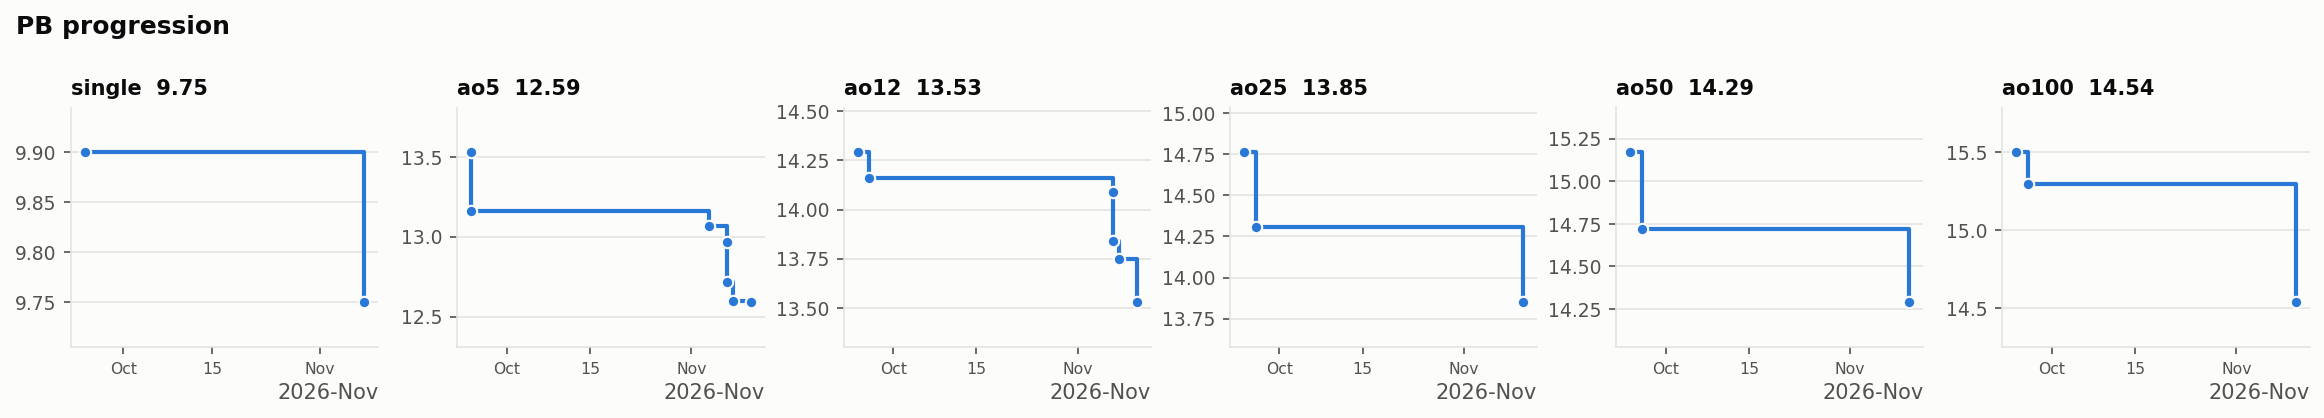
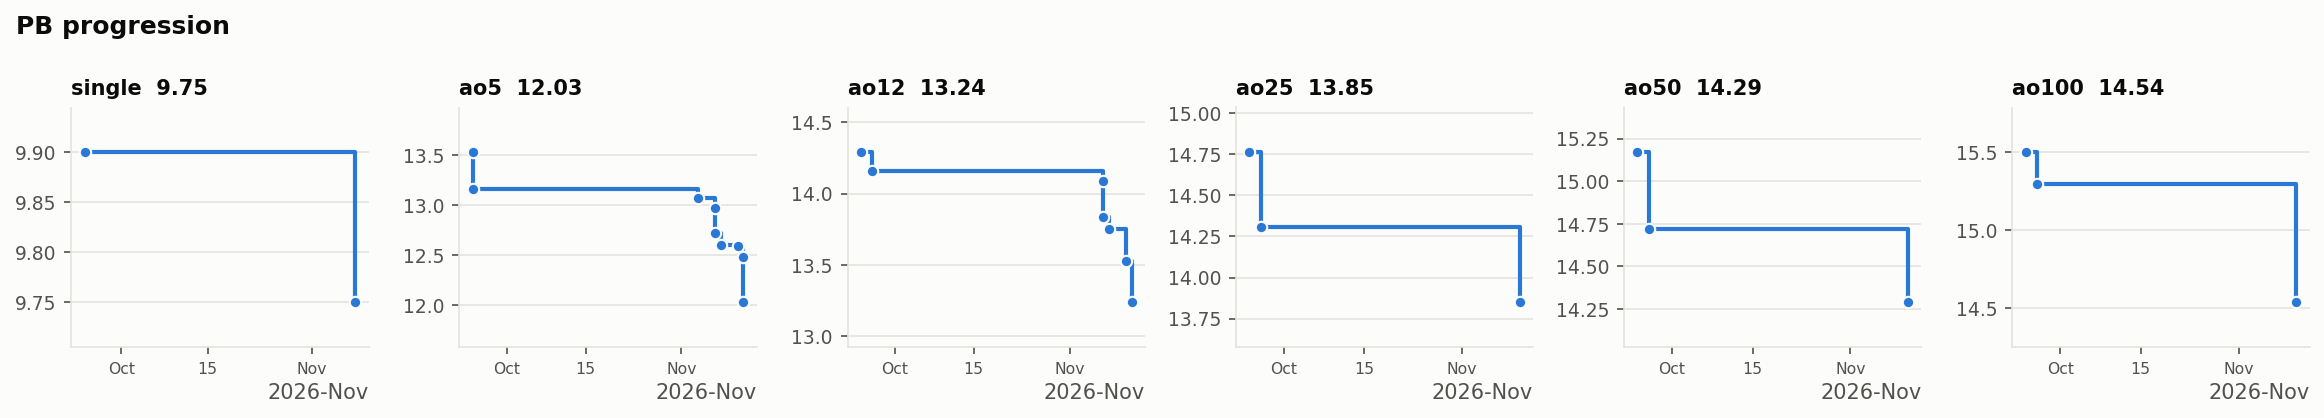
Add 2026-11-12 PBs: 12.48 and 12.03 ao5s, 13.24 ao12; highlights 13.53 ao12, 10.45 single

diff --git a/README.md b/README.md
@@ -7,13 +7,13 @@ Personal-best averages, with the full solve list and stats behind each one. New 
 | Event | PB | Date | Stats |
 |---|---|---|---|
 | **single** | **9.75** | 2026-11-08 | [details](stats/single/single_2026-11-08.md) |
-| **ao5** | **12.59** | 2026-11-11 | [details](stats/ao5/ao5_2026-11-11.md) |
-| **ao12** | **13.53** | 2026-11-11 | [details](stats/ao12/ao12_2026-11-11.md) |
+| **ao5** | **12.03** | 2026-11-12 (#2) | [details](stats/ao5/ao5_2026-11-12_2.md) |
+| **ao12** | **13.24** | 2026-11-12 | [details](stats/ao12/ao12_2026-11-12.md) |
 | **ao25** | **13.85** | 2026-11-11 | [details](stats/ao25/ao25_2026-11-11.md) |
 | **ao50** | **14.29** | 2026-11-11 | [details](stats/ao50/ao50_2026-11-11.md) |
 | **ao100** | **14.54** | 2026-11-11 | [details](stats/ao100/ao100_2026-11-11.md) |
 
-**[Highlights →](highlights/README.md)** (7 singles, 7 ao5s)
+**[Highlights →](highlights/README.md)** (8 singles, 7 ao5s, 1 ao12)
 
 ![PB progression](stats/charts/progression.png)
 
@@ -32,7 +32,9 @@ Newest first. Each new PB pushes the older ones down.
 
 | Date | Time | Improvement | σ | σ / mean | Stats |
 |---|---|---|---|---|---|
-| 2026-11-11 | **12.59** | −0.01 | 1.22 | 9.6% | [details](stats/ao5/ao5_2026-11-11.md) |
+| 2026-11-12 (#2) | **12.03** | −0.45 | 1.48 | 11.9% | [details](stats/ao5/ao5_2026-11-12_2.md) |
+| 2026-11-12 | 12.48 | −0.11 | 1.58 | 12.5% | [details](stats/ao5/ao5_2026-11-12.md) |
+| 2026-11-11 | 12.59 | −0.01 | 1.22 | 9.6% | [details](stats/ao5/ao5_2026-11-11.md) |
 | 2026-11-08 | 12.60 | −0.12 | 0.84 | 6.6% | [details](stats/ao5/ao5_2026-11-08.md) |
 | 2026-11-07 (#2) | 12.72 | −0.25 | 1.64 | 12.7% | [details](stats/ao5/ao5_2026-11-07_2.md) |
 | 2026-11-07 | 12.97 | −0.10 | 1.61 | 12.4% | [details](stats/ao5/ao5_2026-11-07.md) |
@@ -44,7 +46,8 @@ Newest first. Each new PB pushes the older ones down.
 
 | Date | Time | Improvement | σ | σ / mean | Stats |
 |---|---|---|---|---|---|
-| 2026-11-11 | **13.53** | −0.22 | 1.47 | 10.7% | [details](stats/ao12/ao12_2026-11-11.md) |
+| 2026-11-12 | **13.24** | −0.29 | 1.48 | 11.2% | [details](stats/ao12/ao12_2026-11-12.md) |
+| 2026-11-11 | 13.53 | −0.22 | 1.47 | 10.7% | [details](stats/ao12/ao12_2026-11-11.md) |
 | 2026-11-08 | 13.75 | −0.09 | 2.27 | 16.5% | [details](stats/ao12/ao12_2026-11-08.md) |
 | 2026-11-07 (#2) | 13.84 | −0.25 | 1.40 | 10.1% | [details](stats/ao12/ao12_2026-11-07_2.md) |
 | 2026-11-07 | 14.09 | −0.07 | 1.55 | 11.0% | [details](stats/ao12/ao12_2026-11-07.md) |

diff --git a/highlights/README.md b/highlights/README.md
@@ -5,10 +5,11 @@ Fast results that weren't PBs, newest first. Click an event to show or hide it. 
 [← all records](../README.md)
 
 <details open>
-<summary><b>single</b> · 7</summary>
+<summary><b>single</b> · 8</summary>
 
 | Date | Time |
 |---|---|
+| [2026-11-12](#single-2026-11-12--1045) | **10.45** |
 | [2026-11-09](#single-2026-11-09--975) | **9.75** |
 | [2026-11-08 (#2)](#single-2026-11-08-2--1043) | **10.43** |
 | [2026-11-08](#single-2026-11-08--1038) | **10.38** |
@@ -35,13 +36,21 @@ Fast results that weren't PBs, newest first. Click an event to show or hide it. 
 </details>
 
 <details>
-<summary><b>ao12</b> · 0</summary>
+<summary><b>ao12</b> · 1</summary>
 
-_No ao12 highlights yet._
+| Date | Time |
+|---|---|
+| [2026-11-12](#ao12-2026-11-12--1353) | **13.53** |
 
 </details>
 
 ## Details
+
+### single 2026-11-12 — 10.45
+
+**Scramble:** `R' F2 U L2 D' F2 D L2 U F2 D' R2 U' B F' D' L' D2 U2 R2 F'`
+
+_No reconstruction yet._
 
 ### single 2026-11-09 — 9.75
 
@@ -177,3 +186,20 @@ U (R' U' R U D' R2 U R' U R U' R U' R2 D) U2 // PLL (Gb)
 | 3 | (12.24) | `B' D2 B2 U2 L2 B D2 B L2 R2 F R2 U L' F R' F D B' F' L` |
 | 4 | (19.32) | `B' L2 B' F2 L2 F' L2 R2 U2 L2 R2 D' R U' F2 R2 B' F' L' F2` |
 | 5 | **12.33** | `F2 U L' D2 R' U2 R' B2 R' F2 R' B2 D2 B2 F L2 R2 U' R' D' F'` |
+
+### ao12 2026-11-12 — 13.53
+
+| # | Time | Scramble |
+|---|---|---|
+| 1 | (15.98) | `B2 R B D R2 B U2 L' B' F2 D' L2 U B2 L2 U' B2 D' F2 U F'` |
+| 2 | **15.53** | `L' F D L' B' R U F' D L2 F2 B2 U' R2 D2 F2 R2 U2 B' D2` |
+| 3 | **14.47** | `F L' U R2 B2 F2 U' L2 D' U2 R2 U B L' F R2 B2 D B U'` |
+| 4 | **13.84** | `U2 R' U2 R2 B L2 B' U2 B D2 B' F D F' R B2 L R` |
+| 5 | **11.90** | `D' R2 B2 D2 B2 D2 L2 F2 L' R2 U2 R F2 B' U L2 D' B' D2 L' F2` |
+| 6 | **14.82** | `L F2 L2 U2 B R2 B D2 B' U2 L2 B D2 L' U2 B' D2 L' D' F D'` |
+| 7 | **13.68** | `B2 R' F' D2 R2 F' L2 R2 B' U2 L2 B R2 U2 R D L2 D' B2 R2 B` |
+| 8 | **14.91** | `U2 B R' U F D R' D2 L' U L2 B2 L2 U2 F2 U B2 D' R2 F2` |
+| 9 | **12.18** | `R' L U2 B U2 F R L2 U F2 L2 U D R2 F2 D R2 D F2 R'` |
+| 10 | **11.57** | `D' U2 F2 L B2 R2 U2 R B2 R B2 D' F' L' B R U' F' U R2` |
+| 11 | (11.08) | `L' R2 D2 R2 D' R2 U L2 D' U L2 R U2 B U' B L2 D2 L' R2` |
+| 12 | **12.35** | `U2 B2 L U2 L' D2 F2 R2 D2 R D2 L' F D2 U' L' D U2 B F' D'` |

diff --git a/stats/ao12/ao12_2026-11-12.md b/stats/ao12/ao12_2026-11-12.md
@@ -1,0 +1,57 @@
+# ao12 PB — 13.24
+
+**Date:** 2026-11-12  
+**Previous PB:** 13.53 (2026-11-11) · improved by **0.29s**  
+[← all records](../../README.md)
+
+## Stats
+
+| | |
+|---|---|
+| **ao12 (official, trimmed)** | **13.24** |
+| Solves | 12 (trimmed 1 from each end) |
+| Mean (all solves) | 13.25 |
+| Median | 13.19 |
+| Std dev (σ, all solves) | 1.48 |
+| Std dev (σ, counted solves only) | 1.25 |
+| **Consistency: σ / mean** | **11.2%** |
+| Consistency, outlier-proof: IQR / median | 18.6% |
+| Min / Best | 11.08 |
+| Q1 (25th pct) | 12.11 |
+| Q3 (75th pct) | 14.56 |
+| Max / Worst | 15.53 |
+| IQR (Q3 − Q1) | 2.45 |
+| Range | 4.45 |
+| Skewness | +0.09 |
+| Shapiro–Wilk p (normality) | 0.541 |
+
+**Sub-X counts:** sub-12: 3 · sub-13: 6 · sub-14: 8 · sub-15: 11 · sub-16: 12
+
+<sub>Skewness > 0 means a longer tail of slow solves (typical for cubing). Shapiro–Wilk p < 0.05 means the times are unlikely to be normally distributed.</sub>
+
+## Distribution
+
+![distribution](../charts/ao12_2026-11-12_distribution.png)
+
+## Solves in order
+
+![sequence](../charts/ao12_2026-11-12_sequence.png)
+
+## Solves
+
+| # | Time | Scramble |
+|---|---|---|
+| 1 | (15.53) | `L' F D L' B' R U F' D L2 F2 B2 U' R2 D2 F2 R2 U2 B' D2` |
+| 2 | **14.47** | `F L' U R2 B2 F2 U' L2 D' U2 R2 U B L' F R2 B2 D B U'` |
+| 3 | **13.84** | `U2 R' U2 R2 B L2 B' U2 B D2 B' F D F' R B2 L R` |
+| 4 | **11.90** | `D' R2 B2 D2 B2 D2 L2 F2 L' R2 U2 R F2 B' U L2 D' B' D2 L' F2` |
+| 5 | **14.82** | `L F2 L2 U2 B R2 B D2 B' U2 L2 B D2 L' U2 B' D2 L' D' F D'` |
+| 6 | **13.68** | `B2 R' F' D2 R2 F' L2 R2 B' U2 L2 B R2 U2 R D L2 D' B2 R2 B` |
+| 7 | **14.91** | `U2 B R' U F D R' D2 L' U L2 B2 L2 U2 F2 U B2 D' R2 F2` |
+| 8 | **12.18** | `R' L U2 B U2 F R L2 U F2 L2 U D R2 F2 D R2 D F2 R'` |
+| 9 | **11.57** | `D' U2 F2 L B2 R2 U2 R B2 R B2 D' F' L' B R U' F' U R2` |
+| 10 | (11.08) | `L' R2 D2 R2 D' R2 U L2 D' U L2 R U2 B U' B L2 D2 L' R2` |
+| 11 | **12.35** | `U2 B2 L U2 L' D2 F2 R2 D2 R D2 L' F D2 U' L' D U2 B F' D'` |
+| 12 | **12.70** | `L2 F' D R2 U' L2 R2 D' R2 U F2 U2 L B D L' U2 F R` |
+
+<sub>Bold = counted, (parentheses) = trimmed. `+` = includes a +2 penalty.</sub>

diff --git a/stats/ao5/ao5_2026-11-12_2.md b/stats/ao5/ao5_2026-11-12_2.md
@@ -1,0 +1,46 @@
+# ao5 PB — 12.03
+
+**Date:** 2026-11-12 (#2)  
+**Previous PB:** 12.48 (2026-11-12) · improved by **0.45s**  
+[← all records](../../README.md)
+
+## Stats
+
+| | |
+|---|---|
+| **ao5 (official, trimmed)** | **12.03** |
+| Solves | 5 (trimmed 1 from each end) |
+| Mean (all solves) | 12.42 |
+| Median | 12.18 |
+| Std dev (σ, all solves) | 1.48 |
+| Std dev (σ, counted solves only) | 0.41 |
+| **Consistency: σ / mean** | **11.9%** |
+| Consistency, outlier-proof: IQR / median | 6.4% |
+| Min / Best | 11.08 |
+| Q1 (25th pct) | 11.57 |
+| Q3 (75th pct) | 12.35 |
+| Max / Worst | 14.91 |
+| IQR (Q3 − Q1) | 0.78 |
+| Range | 3.83 |
+
+**Sub-X counts:** sub-12: 2 · sub-13: 4 · sub-14: 4 · sub-15: 5
+
+## Distribution
+
+![distribution](../charts/ao5_2026-11-12_2_distribution.png)
+
+## Solves in order
+
+![sequence](../charts/ao5_2026-11-12_2_sequence.png)
+
+## Solves
+
+| # | Time | Scramble |
+|---|---|---|
+| 1 | (14.91) | `U2 B R' U F D R' D2 L' U L2 B2 L2 U2 F2 U B2 D' R2 F2` |
+| 2 | **12.18** | `R' L U2 B U2 F R L2 U F2 L2 U D R2 F2 D R2 D F2 R'` |
+| 3 | **11.57** | `D' U2 F2 L B2 R2 U2 R B2 R B2 D' F' L' B R U' F' U R2` |
+| 4 | (11.08) | `L' R2 D2 R2 D' R2 U L2 D' U L2 R U2 B U' B L2 D2 L' R2` |
+| 5 | **12.35** | `U2 B2 L U2 L' D2 F2 R2 D2 R D2 L' F D2 U' L' D U2 B F' D'` |
+
+<sub>Bold = counted, (parentheses) = trimmed. `+` = includes a +2 penalty.</sub>

diff --git a/stats/ao5/ao5_2026-11-12.md b/stats/ao5/ao5_2026-11-12.md
@@ -1,0 +1,46 @@
+# ao5 PB — 12.48
+
+**Date:** 2026-11-12  
+**Previous PB:** 12.59 (2026-11-11) · improved by **0.11s**  
+[← all records](../../README.md)
+
+## Stats
+
+| | |
+|---|---|
+| **ao5 (official, trimmed)** | **12.48** |
+| Solves | 5 (trimmed 1 from each end) |
+| Mean (all solves) | 12.68 |
+| Median | 12.18 |
+| Std dev (σ, all solves) | 1.58 |
+| Std dev (σ, counted solves only) | 1.09 |
+| **Consistency: σ / mean** | **12.5%** |
+| Consistency, outlier-proof: IQR / median | 17.3% |
+| Min / Best | 11.08 |
+| Q1 (25th pct) | 11.57 |
+| Q3 (75th pct) | 13.68 |
+| Max / Worst | 14.91 |
+| IQR (Q3 − Q1) | 2.11 |
+| Range | 3.83 |
+
+**Sub-X counts:** sub-12: 2 · sub-13: 3 · sub-14: 4 · sub-15: 5
+
+## Distribution
+
+![distribution](../charts/ao5_2026-11-12_distribution.png)
+
+## Solves in order
+
+![sequence](../charts/ao5_2026-11-12_sequence.png)
+
+## Solves
+
+| # | Time | Scramble |
+|---|---|---|
+| 1 | **13.68** | `B2 R' F' D2 R2 F' L2 R2 B' U2 L2 B R2 U2 R D L2 D' B2 R2 B` |
+| 2 | (14.91) | `U2 B R' U F D R' D2 L' U L2 B2 L2 U2 F2 U B2 D' R2 F2` |
+| 3 | **12.18** | `R' L U2 B U2 F R L2 U F2 L2 U D R2 F2 D R2 D F2 R'` |
+| 4 | **11.57** | `D' U2 F2 L B2 R2 U2 R B2 R B2 D' F' L' B R U' F' U R2` |
+| 5 | (11.08) | `L' R2 D2 R2 D' R2 U L2 D' U L2 R U2 B U' B L2 D2 L' R2` |
+
+<sub>Bold = counted, (parentheses) = trimmed. `+` = includes a +2 penalty.</sub>
